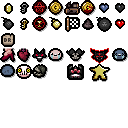
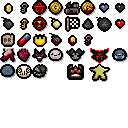
correctly eat pill and pick items

Changed region(s): [[0.125, 0.25, 0.5, 0.375], [0.6562, 0.25, 0.75, 0.375], [0.5312, 0.25, 0.625, 0.375]]

diff --git a/src/callbacks/entitySpawn.ts b/src/callbacks/entitySpawn.ts
@@ -3,56 +3,63 @@ import { GoutBeatEntities } from "../types/goutBeatEntities";
 import { ruleDescriptors } from "../types/rules/ruleDescriptions";
 
 export function entitySpawnInit(mod: Mod): void {
-  mod.AddCallback(ModCallbacks.MC_PRE_ENTITY_SPAWN, onPreEntitySpawn);
+  mod.AddCallback(ModCallbacks.MC_POST_PICKUP_UPDATE, OnPickUpdate);
   mod.AddCallback(ModCallbacks.MC_PRE_ENTITY_SPAWN, replaceBigChest);
 }
 
-// eslint-disable-next-line consistent-return
-function onPreEntitySpawn(
-  entityType: EntityType,
-  variant: int,
-  subType: int,
-): void | [number, number, number, number] {
+function OnPickUpdate(entity: EntityPickup) {
   if (
-    entityType === EntityType.ENTITY_PICKUP &&
-    variant === PickupVariant.PICKUP_PILL &&
+    entity.Variant === PickupVariant.PICKUP_PILL &&
     globals.$rules.includes(ruleDescriptors[9])
   ) {
-    swallowPill(subType);
-    return [EntityType.ENTITY_EFFECT, EffectVariant.POOF01, 0, 0];
+    swallowPill(entity);
+    entity.Remove();
   }
   if (
-    entityType === EntityType.ENTITY_PICKUP &&
-    variant === PickupVariant.PICKUP_COLLECTIBLE &&
+    entity.Variant === PickupVariant.PICKUP_COLLECTIBLE &&
     globals.$rules.includes(ruleDescriptors[11])
   ) {
-    const room = Game().GetRoom();
-    const pool = Game().GetItemPool();
-    const itemPoolType = pool.GetPoolForRoom(
-      room.GetType(),
-      Game().GetSeeds().GetNextSeed(),
+    pickupCollectible(entity);
+    Isaac.Spawn(
+      EntityType.ENTITY_EFFECT,
+      EffectVariant.POOF01,
+      0,
+      entity.Position,
+      Vector.Zero,
+      undefined,
     );
-    const collectible = pool.GetCollectible(itemPoolType);
-    Isaac.GetPlayer().AddCollectible(collectible);
-    return [EntityType.ENTITY_EFFECT, EffectVariant.POOF01, 0, 0];
+    entity.Remove();
   }
 }
-
-function swallowPill(subType: int) {
-  const g = Game();
-  let color: PillColor;
-  if (subType === 0) {
-    color = g.GetItemPool().GetPill(g.GetSeeds().GetNextSeed());
-  } else {
-    color = subType;
+function pickupCollectible(entity: EntityPickup) {
+  const collectible = entity.SubType;
+  Isaac.GetPlayer().AddCollectible(collectible);
+  const itemConfig = Isaac.GetItemConfig().GetCollectible(collectible);
+  if (itemConfig !== undefined) {
+    Game().GetHUD().ShowItemText(Isaac.GetPlayer(), itemConfig);
   }
+  entity.PlayPickupSound();
+  Isaac.Spawn(
+    EntityType.ENTITY_EFFECT,
+    EffectVariant.POOF01,
+    0,
+    entity.Position,
+    Vector.Zero,
+    undefined,
+  );
+  Isaac.GetPlayer().AnimateCollectible(collectible);
+}
+
+function swallowPill(entity: EntityPickup) {
+  const g = Game();
   const player = Isaac.GetPlayer();
-  const effect = g.GetItemPool().GetPillEffect(color, player);
+  const effect = g.GetItemPool().GetPillEffect(entity.SubType, player);
   if (effect !== PillEffect.PILLEFFECT_NULL) {
-    player.UsePill(effect, color);
-    player.AnimatePill(color);
+    player.UsePill(effect, entity.SubType);
+    player.AnimatePill(entity.SubType);
     player.EvaluateItems();
   }
+  return [EntityType.ENTITY_EFFECT, EffectVariant.POOF01, 0, 0];
 }
 
 // eslint-disable-next-line consistent-return

diff --git a/src/utils/iconFromRule.ts b/src/utils/iconFromRule.ts
@@ -9,9 +9,9 @@ export function IconFromRule(rule: Rules): number {
     case Rules.KEY:
       return 1;
     case Rules.PILL:
-      return 1;
+      return 17;
     case Rules.ITEM:
-      return 1;
+      return 18;
     case Rules.TEAR:
       return 1;
     default:
